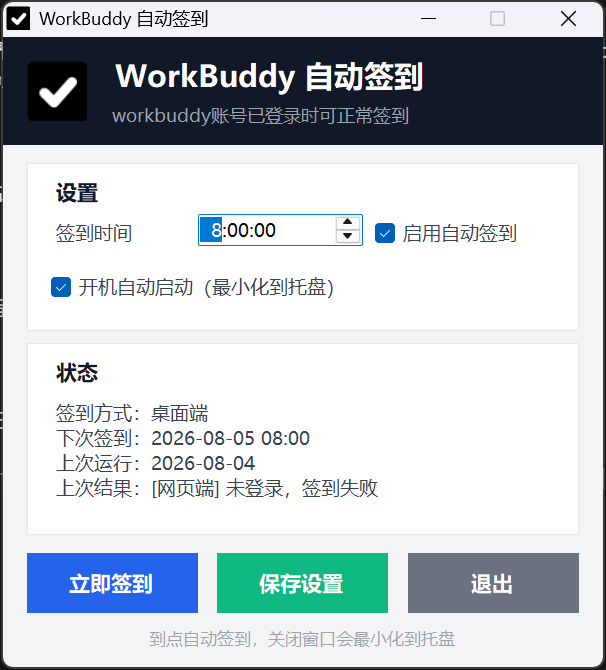
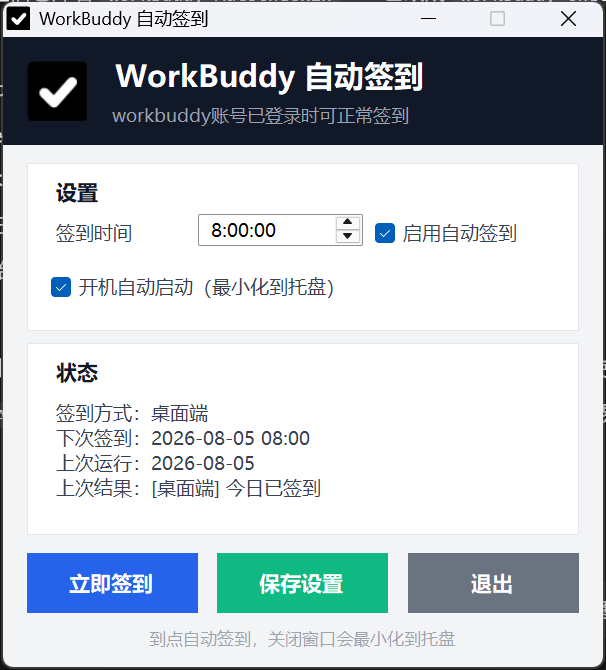
docs: refresh UI screenshot, remove changelog section

diff --git a/README.md b/README.md
@@ -78,10 +78,6 @@ workbuddy-checkin/
 
 旧版脚本打包器容易被启发式误报。当前 exe 为原生 .NET WinForms 编译，一般不误报；如果被杀毒软件隔离，请在隔离区还原，并把 exe 所在目录加入信任区。
 
-## 更新记录
-
-- **v1.0.1**：界面美化（深色标题栏、卡片式布局、彩色按钮）；移除网页端签到（网页无签到入口）；窗口收窄；修复高 DPI 下文字截断
-
 ## 许可证
 
 [MIT](LICENSE) © 2026 dinasourlab
